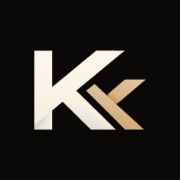
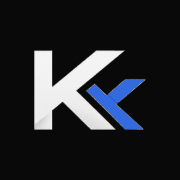
refactor: update brand assets to royal blue color scheme

Changed region(s): [[0.4722, 0.4444, 0.8056, 0.7222]]

diff --git a/src/components/brand/brand.ts b/src/components/brand/brand.ts
@@ -6,15 +6,16 @@
  * `npm run check:brand` fails the build if a logo file is referenced anywhere
  * else, so a rebrand only ever touches this folder.
  *
- * Source artwork: design/brand-archive/krudex-bg-gold.png (gold KK logo).
+ * Source artwork: design/brand-archive/krudex-bg-gold.png (gold KK logo),
+ * recolored to royal blue #2C65DD; cream parts made pure white.
  */
 export const BRAND = {
   name: 'Krudex Global',
-  /** Gold KK logo with KRUDEX and "Build · Solve · Scale", trimmed to its edges. */
-  logoSrc: '/brand/krudex-global-logo.png',
+  /** Blue KK logo with KRUDEX and "Build · Solve · Scale", trimmed to its edges. */
+  logoSrc: '/brand/krudex-global-logo-royal.png',
   logoWidth: 334,
   logoHeight: 221,
-  /** Gold KK symbol alone, 512×512 transparent, for structured data. */
-  markSmallSrc: '/brand/krudex-global-mark-512.png',
+  /** Blue KK symbol alone, 512×512 transparent, for structured data. */
+  markSmallSrc: '/brand/krudex-global-mark-royal-512.png',
   logoAlt: 'Krudex Global: Build, Solve, Scale',
 } as const;

diff --git a/src/components/brand/BrandLogo.tsx b/src/components/brand/BrandLogo.tsx
@@ -2,7 +2,7 @@ import Image from 'next/image';
 import { BRAND } from './brand';
 
 /**
- * The Krudex Global logo (gold KK). Use this everywhere a logo appears.
+ * The Krudex Global logo (blue KK). Use this everywhere a logo appears.
  *
  * Size it with a text class (e.g. "text-[20px]"): the logo is `height` em
  * tall, so one font size scales it responsively. Default 3em.

diff --git a/README.md b/README.md
@@ -192,7 +192,7 @@ Every logo on the site comes from **`src/components/brand/`**. Nothing else may 
 | `brand.ts` | `BRAND` constants: name, logo path and size, alt text |
 | `BrandLogo.tsx` | The gold KK logo. Size it with a text class, e.g. `className="text-[20px]"`; the logo is `height` em tall (default 3) |
 
-Static files live in `public/brand/`: `krudex-global-logo.png` (full logo, trimmed) and `krudex-global-mark-512.png` (KK symbol, JSON-LD logo). The favicon (`src/app/icon.png`) and Apple icon (`src/app/apple-icon.png`) are the KK symbol. The social card (`src/app/opengraph-image.tsx`) uses the full logo. Source artwork: `design/brand-archive/krudex-bg-gold.png`.
+Static files live in `public/brand/`: `krudex-global-logo-royal.png` (full logo, trimmed) and `krudex-global-mark-royal-512.png` (KK symbol, JSON-LD logo). The favicon (`src/app/icon.png`) and Apple icon (`src/app/apple-icon.png`) are the KK symbol. The social card (`src/app/opengraph-image.tsx`) uses the full logo. Source artwork: `design/brand-archive/krudex-bg-gold.png`, recolored to royal blue `#2C65DD`.
 
 **Guard:** `npm run check:brand` runs before every build and in CI. It fails if a file outside `src/components/brand/` references a logo image, if "Krudex Technologies" reappears, if a brand asset is missing, or if an old logo is put back in `public/`. `e2e/brand.spec.ts` checks that every page renders the logo in the navbar and footer.
 
